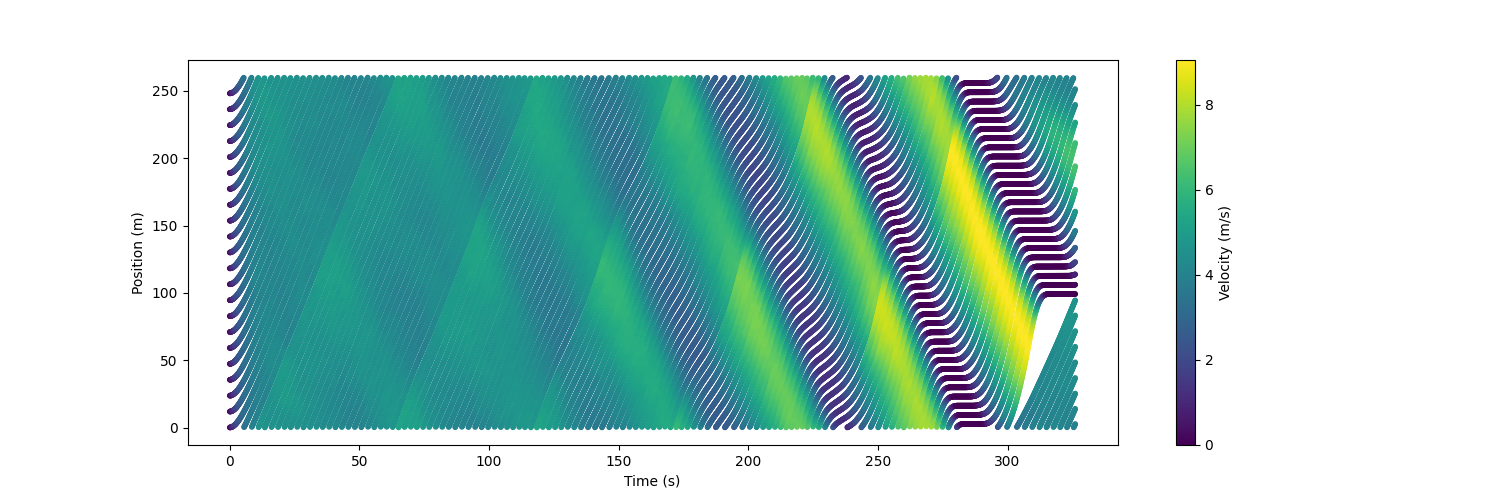
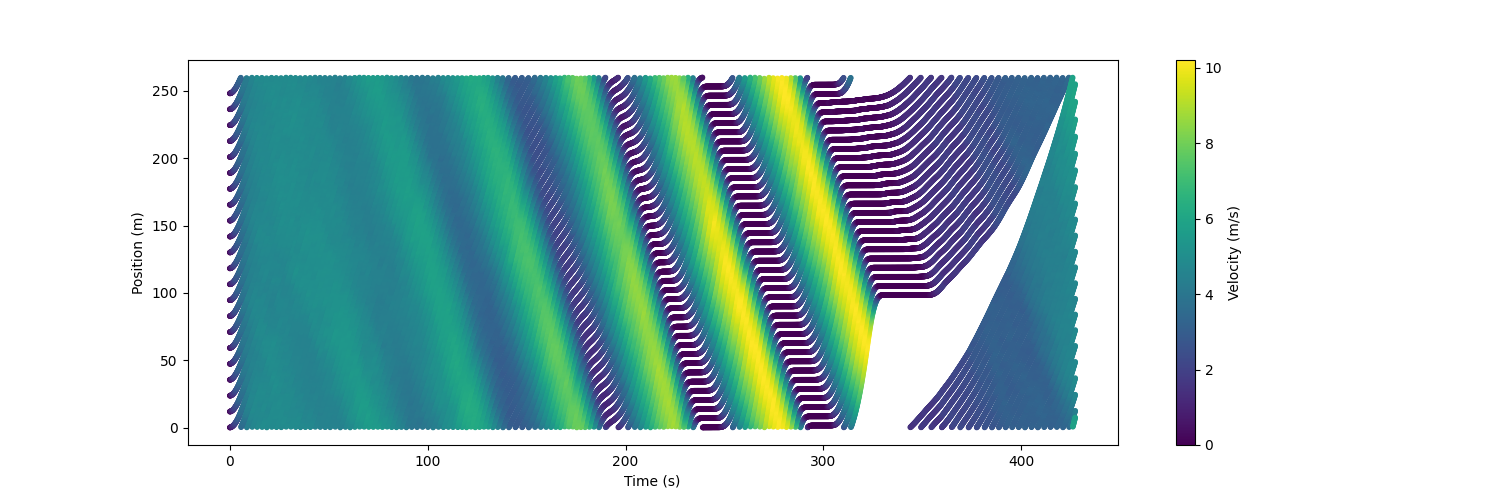
adding current stages

diff --git a/Ring_Road/vehicle/state.py b/Ring_Road/vehicle/state.py
@@ -8,7 +8,7 @@ from Ring_Road.constants import RADIUS, CAR_LENGTH, RADIUS, AGENT_MAX_VELOCITY, 
 class StateExtractor:
     def __init__(self, env):
         self.env = env
-        self.delay = 0.5
+        self.delay = 0.4
 
     def gap_front(self, veh):
         if veh.front_vehicle.central_angle - veh.central_angle < 0:
@@ -55,8 +55,7 @@ class StateExtractor:
         if next_vel > 0:
             # the second and third terms cover (conservatively) the extra
             # distance the vehicle will cover before it fully decelerates
-            if h < DELTA_T * next_vel + this_vel * 1e-3 + \
-                    0.5 * this_vel * DELTA_T:
+            if h < DELTA_T * next_vel + this_vel * 1e-3 + 0.5 * this_vel * DELTA_T:
                 # if the vehicle will crash into the vehicle ahead of it in the
                 # next time step (assuming the vehicle ahead of it is not
                 # moving), then stop immediately
@@ -84,6 +83,8 @@ class StateExtractor:
         this_vel = agent.v
         sim_step = DELTA_T
 
+        print(h, safe_velocity)
+
         if this_vel + action * sim_step > safe_velocity:
             if safe_velocity > 0:
                 return (safe_velocity - this_vel) / sim_step
@@ -104,7 +105,7 @@ class StateExtractor:
 
         accel = self.get_safe_action_instantaneous(accel, front_veh, agent)
         accel = self.get_safe_velocity_action(accel, front_veh, agent)
-        accel = np.clip(accel, -1, 1)
+        accel = np.clip(accel, -0.5, 1)
         accel = self.obey_speed_limit(accel, front_veh, agent)
         return accel
 

diff --git a/Ring_Road/envs/ringroad.py b/Ring_Road/envs/ringroad.py
@@ -48,7 +48,7 @@ class RingRoad(gym.Env):
         if self.enable_render:
             self.viewer = Render(self)
         self.collision = False
-        np.random.seed(42)
+        np.random.seed(15)
 
     def _initialize_state(self, env_vehicles=ENV_VEHICLES):
 
@@ -94,6 +94,7 @@ class RingRoad(gym.Env):
 
     def _simulate(self, action):
         frames = int(FPS // ACTION_FREQ)
+
         for frame in range(frames):
             if action is not None and self.simulation_time % frames == 0:
                 for agent in self.agents:
@@ -187,6 +188,7 @@ class RingRoad(gym.Env):
         else:
             scaled_action = action
 
+        print(action)
         self._simulate(scaled_action)
         self.state = self.state_extractor.neighbour_states()
         reward = self._reward(scaled_action)

diff --git a/main.py b/main.py
@@ -17,7 +17,7 @@ def main():
         scripts.train_dqn.evaluate("/home/vamsi/Documents/GitHub/RingRoad-RL/Models/DQN/DQNTrainer_2022-03-03_19-28-07/DQNTrainer_ringroad-v1_f4621_00000_0_2022-03-03_19-28-08/checkpoint_000488/checkpoint-488")
 
     elif args.type == "eval_ppo":
-        scripts.train_ppo.evaluate("/home/vamsi/Documents/GitHub/RingRoad-RL/Models/PPO/SingleAgent/PPOTrainer_2022-07-14_12-10-22/PPOTrainer_ringroad-v1_d5e13_00000_0_2022-07-14_12-10-22/checkpoint_000250/checkpoint-250")
+        scripts.train_ppo.evaluate("/home/vamsi/Documents/GitHub/RingRoad-RL/Models/PPO/SingleAgent/PPOTrainer_2022-07-14_17-17-26/PPOTrainer_ringroad-v1_bb70f_00000_0_2022-07-14_17-17-26/checkpoint_000250/checkpoint-250")
 
     elif args.type == "eval_idm":
         scripts.evaluate_idm.evaluate()
